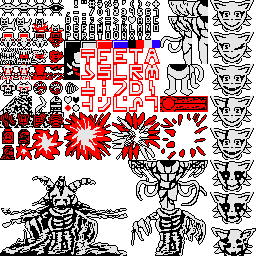
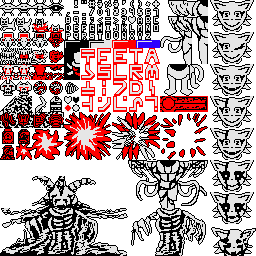
Added love, UI panels, ascention.

Changed region(s): [[0.3125, 0.1562, 0.5938, 0.1875]]

diff --git a/main.go b/main.go
@@ -2,7 +2,6 @@ package main
 
 /*
 TODO:
--Love system
 -Player hurting
 -Knight
 -Blargh
@@ -18,7 +17,6 @@ TODO:
 
 import (
 	"container/list"
-	"fmt"
 	"image"
 	_ "image/color"
 	_ "image/png"
@@ -29,7 +27,6 @@ import (
 	"time"
 
 	"github.com/hajimehoshi/ebiten"
-	"github.com/hajimehoshi/ebiten/ebitenutil"
 )
 
 const (
@@ -39,19 +36,43 @@ const (
 	SCR_HEIGHT_H = SCR_HEIGHT / 2
 )
 
-var (
-	__graphics *ebiten.Image
-)
+type Mission struct {
+	loveQuota  int
+	knightFreq float64
+	blarghFreq float64
+	gopnikFreq float64
+	wormFreq   float64
+	barrelFreq float64
+	crossFreq  float64
+}
+
+var missions [6]Mission
+
+func init() {
+	missions[0] = Mission{
+		loveQuota:  100,
+		knightFreq: 0.5,
+		blarghFreq: 0.5,
+		gopnikFreq: 0.5,
+		wormFreq:   0.5,
+		barrelFreq: 0.5,
+		crossFreq:  0.0,
+	}
+}
 
 //Game ...
 type Game struct {
-	objects   *list.List
-	level     *Level
-	deltaTime float64
-	lastTime  time.Time
-	camPos    *Vec2f
+	objects       *list.List
+	level         *Level
+	deltaTime     float64
+	lastTime      time.Time
+	camPos        *Vec2f
+	loveBarBorder UIBox
+	loveBar       *Sprite
+	mission       *Mission
 }
 
+var cheatText string = ""
 var game *Game
 
 //To mark points visually for inspection of collision detection
@@ -63,6 +84,8 @@ func (g *Game) Update() error {
 	now := time.Now()
 	g.deltaTime = now.Sub(g.lastTime).Seconds()
 	g.lastTime = now
+
+	cheatText += string(ebiten.InputChars())
 
 	//Prevent the game from going AWOL when the window is moved
 	if g.deltaTime > 0.25 {
@@ -131,6 +154,9 @@ func (g *Game) Draw(screen *ebiten.Image) {
 		}
 	}
 
+	g.loveBarBorder.Draw(screen)
+	g.loveBar.Draw(screen, nil)
+
 	if debugSpot.x != 0.0 || debugSpot.y != 0.0 {
 		o := &ebiten.DrawImageOptions{}
 		o.GeoM.Concat(*camMat)
@@ -138,13 +164,15 @@ func (g *Game) Draw(screen *ebiten.Image) {
 		debugSprite.Draw(screen, &o.GeoM)
 	}
 
-	ebitenutil.DebugPrint(screen, fmt.Sprint(ebiten.CurrentFPS()))
+	//ebitenutil.DebugPrint(screen, fmt.Sprint(ebiten.CurrentFPS()))
 }
 
 //Layout ...
 func (g *Game) Layout(outsideWidth, outsideHeight int) (screenWidth, screenHeight int) {
 	return SCR_WIDTH, SCR_HEIGHT
 }
+
+var __graphics *ebiten.Image
 
 //Returns the graphics page and loads it if it isn't there
 func GetGraphics() *ebiten.Image {
@@ -168,16 +196,18 @@ func GetGraphics() *ebiten.Image {
 func main() {
 	rand.Seed(time.Now().UnixNano())
 	//Init game
-	game = new(Game)
-	game.lastTime = time.Now()
-	game.camPos = ZeroVec()
+	game = &Game{
+		objects:       list.New(),
+		level:         GenerateLevel(64, 64),
+		lastTime:      time.Now(),
+		camPos:        ZeroVec(),
+		loveBarBorder: CreateUIBox(image.Rect(64, 40, 88, 48), image.Rect(4, 4, 4+160, 4+16)),
+		loveBar:       SpriteFromScaledImg(GetGraphics().SubImage(image.Rect(104, 40, 112, 48)).(*ebiten.Image), image.Rect(4+8, 4+8, 4+160-8, 4+16-8), 0),
+		mission:       &missions[0],
+	}
 
 	debugSpot = ZeroVec()
 	debugSprite = NewSprite(image.Rect(136, 40, 140, 44), &Vec2f{-2.0, -2.0}, false, false, 0)
-
-	//Initialize world
-	game.objects = list.New()
-	game.level = GenerateLevel(64, 64)
 
 	center := func(x int) float64 {
 		return float64(x)*TILE_SIZE + 8.0

diff --git a/sprite.go b/sprite.go
@@ -44,9 +44,64 @@ func NewSprites(ofs *Vec2f, rects ...image.Rectangle) []*Sprite {
 	return sprites
 }
 
+//Creates a sprite that fills a given rectangle on the screen
+func SpriteFromScaledImg(subImg *ebiten.Image, dest image.Rectangle, orient int) *Sprite {
+	matrix := new(ebiten.GeoM)
+
+	//Perform rotation
+	hw := float64(subImg.Bounds().Dx()) / 2.0
+	hh := float64(subImg.Bounds().Dy()) / 2.0
+	matrix.Translate(-hw, -hh)
+	matrix.Rotate(float64(orient) * math.Pi / 2.0)
+	matrix.Translate(hw, hh)
+
+	//Perform scaling
+	matrix.Scale(
+		float64(dest.Dx())/float64(subImg.Bounds().Dx()),
+		float64(dest.Dy())/float64(subImg.Bounds().Dy()))
+	//Offset
+	matrix.Translate(float64(dest.Min.X), float64(dest.Min.Y))
+
+	return &Sprite{subImg, matrix}
+}
+
+type UIBox struct {
+	sprites []*Sprite
+	rect    image.Rectangle
+}
+
+func CreateUIBox(src, dest image.Rectangle) UIBox {
+	sprites := make([]*Sprite, 9)
+	bodyImg := GetGraphics().SubImage(image.Rect(src.Min.X+16, src.Min.Y, src.Min.X+24, src.Max.Y)).(*ebiten.Image)
+	sprites[0] = SpriteFromScaledImg(bodyImg, image.Rect(dest.Min.X+8, dest.Min.Y+8, dest.Max.X-8, dest.Max.Y-8), 0) //Middle
+	edgeImg := GetGraphics().SubImage(image.Rect(src.Min.X+8, src.Min.Y, src.Min.X+16, src.Max.Y)).(*ebiten.Image)
+	sprites[1] = SpriteFromScaledImg(edgeImg, image.Rect(dest.Min.X+8, dest.Min.Y, dest.Max.X-8, dest.Min.Y+8), 0) //Top
+	sprites[2] = SpriteFromScaledImg(edgeImg, image.Rect(dest.Max.X-8, dest.Min.Y+8, dest.Max.X, dest.Max.Y-8), 1) //Right
+	sprites[3] = SpriteFromScaledImg(edgeImg, image.Rect(dest.Min.X+8, dest.Max.Y-8, dest.Max.X-8, dest.Max.Y), 2) //Bottom
+	sprites[4] = SpriteFromScaledImg(edgeImg, image.Rect(dest.Min.X, dest.Min.Y+8, dest.Min.X+8, dest.Max.Y-8), 3) //Left
+	cornerImg := GetGraphics().SubImage(image.Rect(src.Min.X, src.Min.Y, src.Min.X+8, src.Max.Y)).(*ebiten.Image)
+	sprites[5] = SpriteFromScaledImg(cornerImg, image.Rect(dest.Min.X, dest.Min.Y, dest.Min.X+8, dest.Min.Y+8), 0) //Top left
+	sprites[6] = SpriteFromScaledImg(cornerImg, image.Rect(dest.Max.X-8, dest.Min.Y, dest.Max.X, dest.Min.Y+8), 1) //Top right
+	sprites[7] = SpriteFromScaledImg(cornerImg, image.Rect(dest.Max.X-8, dest.Max.Y-8, dest.Max.X, dest.Max.Y), 2) //Bottom right
+	sprites[8] = SpriteFromScaledImg(cornerImg, image.Rect(dest.Min.X, dest.Max.Y-8, dest.Min.X+8, dest.Max.Y), 3) //Bottom left
+	return UIBox{sprites, dest}
+}
+
+func (ui UIBox) Draw(target *ebiten.Image) {
+	op := &ebiten.DrawImageOptions{}
+	for _, sp := range ui.sprites {
+		if sp != nil {
+			op.GeoM = *sp.matrix
+			target.DrawImage(sp.subImg, op)
+		}
+	}
+}
+
 func (spr *Sprite) Draw(target *ebiten.Image, pt *ebiten.GeoM) {
 	op := &ebiten.DrawImageOptions{}
 	op.GeoM = *spr.matrix
-	op.GeoM.Concat(*pt)
+	if pt != nil {
+		op.GeoM.Concat(*pt)
+	}
 	target.DrawImage(spr.subImg, op)
 }

diff --git a/player.go b/player.go
@@ -2,6 +2,7 @@ package main
 
 import (
 	"image"
+	"strings"
 
 	"github.com/hajimehoshi/ebiten"
 )
@@ -28,10 +29,14 @@ type Player struct {
 
 var plSpriteNormal *Sprite
 var plSpriteShoot *Sprite
+var plSpriteHurt *Sprite
+var plSpriteAscended *Sprite
 
 func init() {
 	plSpriteNormal = NewSprite(image.Rect(0, 0, 16, 16), &Vec2f{-8.0, -8.0}, false, false, 0)
 	plSpriteShoot = NewSprite(image.Rect(16, 0, 32, 16), &Vec2f{-8.0, -8.0}, false, false, 0)
+	plSpriteHurt = NewSprite(image.Rect(32, 0, 32+16, 16), &Vec2f{-8.0, -8.0}, false, false, 0)
+	plSpriteAscended = NewSprite(image.Rect(48, 0, 64, 16), &Vec2f{-8.0, -8.0}, false, false, 0)
 }
 
 func AddPlayer(game *Game, x, y float64) *Player {
@@ -68,13 +73,22 @@ func (player *Player) Update(game *Game, obj *Object) {
 			PlaySound("player_shot")
 			player.shootTimer = PL_SHOOT_FREQ
 		}
+	} else {
+		player.shootTimer -= game.deltaTime
 	}
 
-	if player.shootTimer > 0.0 {
-		obj.sprites[0] = plSpriteShoot
-		player.shootTimer -= game.deltaTime
-	} else {
-		obj.sprites[0] = plSpriteNormal
+	//Set sprite
+	switch player.state {
+	case PS_NORMAL:
+		if player.shootTimer > 0.0 {
+			obj.sprites[0] = plSpriteShoot
+		} else {
+			obj.sprites[0] = plSpriteNormal
+		}
+	case PS_HURT:
+		obj.sprites[0] = plSpriteHurt
+	case PS_ASCENDED:
+		obj.sprites[0] = plSpriteAscended
 	}
 
 	//Movement
@@ -95,4 +109,25 @@ func (player *Player) Update(game *Game, obj *Object) {
 	player.Actor.Update(game, obj)
 
 	game.camPos = obj.pos
+
+	//Love cheat code
+	if strings.Contains(strings.ToLower(cheatText), "tdnepotis") {
+		player.love = game.mission.loveQuota - 1
+		cheatText = ""
+	}
+	//Update UI with love amount
+	barRect := image.Rect(game.loveBarBorder.rect.Min.X+3, game.loveBarBorder.rect.Min.Y+3, game.loveBarBorder.rect.Max.X-3, game.loveBarBorder.rect.Max.Y-3)
+	barRect.Max.X = barRect.Min.X + int(float64(barRect.Dx())*float64(player.love)/float64(game.mission.loveQuota))
+	game.loveBar = SpriteFromScaledImg(game.loveBar.subImg, barRect, 0)
+
+}
+
+func (player *Player) OnCollision(game *Game, obj, other *Object) {
+	if other.colType == CT_ITEM {
+		player.love++
+		if player.love >= game.mission.loveQuota {
+			player.love = game.mission.loveQuota
+			player.state = PS_ASCENDED
+		}
+	}
 }

diff --git a/love.go b/love.go
@@ -1,0 +1,77 @@
+package main
+
+import (
+	"image"
+	"math"
+	"math/rand"
+)
+
+const (
+	LOVE_FRICTION = 20_000.0
+	LOVE_SPEED    = 120.0
+)
+
+type Love struct {
+	vel       *Vec2f
+	blinkAnim *Anim
+	life      float64
+}
+
+var sprLoveBlink []*Sprite
+
+func init() {
+	sprLoveBlink = NewSprites(&Vec2f{-4.0, -4.0}, image.Rect(64, 96, 64+8, 96+8), image.Rect(64+8, 96, 64+16, 96+8))
+}
+
+func AddLove(game *Game, count int, x, y float64) {
+	//Since they all spawn at the same time, they can share an anim struct
+	anim := &Anim{
+		frames: sprLoveBlink,
+		speed:  100.0,
+		loop:   true,
+	}
+	angle := rand.Float64() * math.Pi * 2.0
+	for i := 0; i < count; i++ {
+		lv := &Love{
+			vel:       (&Vec2f{math.Cos(angle), math.Sin(angle)}).Scale(LOVE_SPEED),
+			blinkAnim: anim,
+			life:      6.0,
+		}
+		angle += rand.Float64() * math.Pi * 0.666
+		game.objects.PushBack(&Object{
+			pos: &Vec2f{x, y}, radius: 4.0, colType: CT_ITEM,
+			sprites: []*Sprite{
+				sprLoveBlink[0],
+			},
+			components: []Component{lv},
+		})
+	}
+}
+
+func (lv *Love) Update(game *Game, obj *Object) {
+	//Friction
+	spd := lv.vel.Length()
+	if spd != 0.0 {
+		lv.vel.Sub(lv.vel.Clone().Scale(1.0 / spd).Scale(math.Min(spd, LOVE_FRICTION*game.deltaTime*game.deltaTime)))
+	}
+	//Movement
+	obj.pos.Add(lv.vel.Clone().Scale(game.deltaTime))
+
+	lv.blinkAnim.Update(game.deltaTime)
+	obj.sprites[0] = lv.blinkAnim.GetSprite()
+
+	lv.life -= game.deltaTime
+	if lv.life < 3.0 {
+		lv.blinkAnim.speed = 0.5
+	}
+	if lv.life <= 0.0 {
+		obj.removeMe = true
+	}
+}
+
+func (lv *Love) OnCollision(game *Game, obj, other *Object) {
+	if other.colType == CT_PLAYER {
+		PlaySound("love_get")
+		obj.removeMe = true
+	}
+}

diff --git a/anim.go b/anim.go
@@ -2,7 +2,7 @@ package main
 
 type Anim struct {
 	frames   []*Sprite
-	rate     float64 //Frames per second
+	speed    float64 //Frames per second
 	loop     bool
 	timer    float64
 	frame    int
@@ -15,7 +15,7 @@ func (anim *Anim) GetSprite() *Sprite {
 
 func (anim *Anim) Update(deltaTime float64) {
 	anim.timer += deltaTime
-	if anim.timer > anim.rate {
+	if anim.timer > anim.speed {
 		anim.timer = 0.0
 		anim.frame += 1
 		if anim.frame >= len(anim.frames) {

diff --git a/shot.go b/shot.go
@@ -43,7 +43,9 @@ func (shot *Shot) Update(game *Game, obj *Object) {
 	//Wall bounce
 	hit, normal := game.level.SphereIntersects(obj.pos.Clone().Add(shot.vel.Clone().Scale(game.deltaTime)), obj.radius)
 	if hit {
-		shot.vel = normal.Scale(shot.vel.Length())
+		if normal.x != 0.0 || normal.y != 0.0 {
+			shot.vel = normal.Scale(shot.vel.Length())
+		}
 		shot.bounces++
 		if shot.bounces == 2 {
 			shot.life = 0.0
